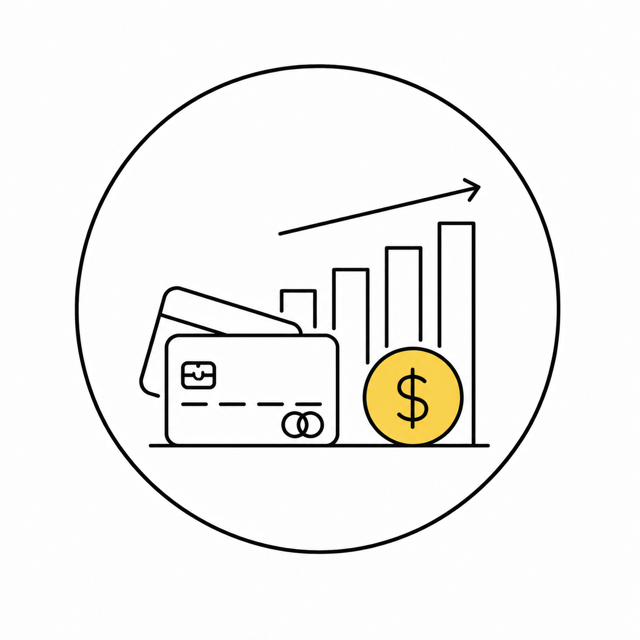
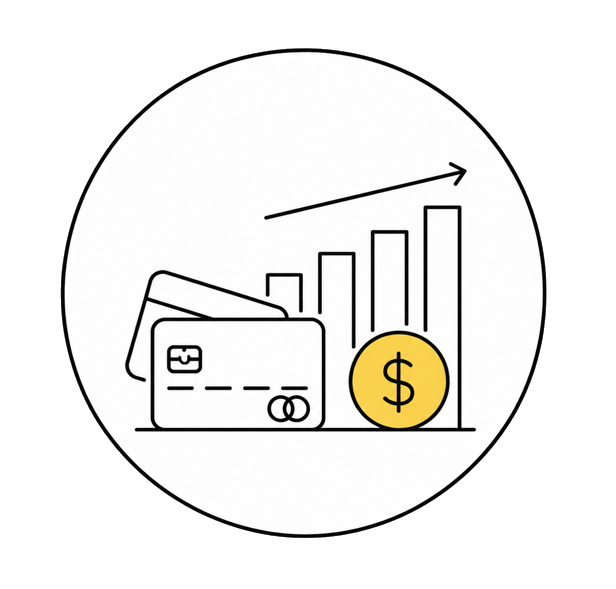
Commiting a bunch of changes before I change fonts.  Not pushing to github yet because I don't want it to affect live site.

Changed region(s): [[0.0925, 0.0611, 0.8945, 0.9168], [0.4318, 0.3056, 0.6786, 0.3973], [0.3084, 0.8251, 0.4318, 0.8862]]

diff --git a/templates/about.html b/templates/about.html
@@ -3,7 +3,7 @@
 {% block body %}
 
 <div class="px-4 py-5 my-5 text-center">
-    <h1 class="display-5 mb-4 fw-bold text-body-emphasis">About Yellow Pin Travel</h1>
+    <h1 class="display-5 mb-4 fw-bold text-body-emphasis">About Yellow Pin <span class="manrope-title">Travel</span></h1>
     <div class="col-lg-6 mx-auto">
         <p class="lead my-4 pt-3"> I'm Jen, the founder of Yellow Pin Travel. I am an avid traveler with an insatiable appetite for planning travel. I have been across the globe in nearly every direction; my longest flight has been 14.5 hours in the air. I love every aspect of travel.</p>
 
@@ -16,7 +16,7 @@
 
 </div>
 
-<section class="section">
+<section class="about-section">
     <div class="container-fluid">
         <div class="row justify-content-center">
             <div class="col-md p-5 align-self-center d-flex justify-content-center">
@@ -32,7 +32,7 @@
     </div>
 </section>
 
-<section class="section">
+<section class="about-section">
     <div class="container-fluid">
         <div class="row">
             <div class="col-md-5">
@@ -48,28 +48,29 @@
     </div>
 </section>
 
-<section class="cta-section p-3">
-    <div class="container mb-4">
-        <div class="row">
-            <div class="col">
-
-            </div>
-            <div class="col-lg-6">
-                <div class="card rounded-4 shadow">
-                    <img src="static/images/Cocoa.jpg" class="card-img-top rounded-4" alt="Cocoa">
+<section class="about-section py-4">
+    <div class="container-fluid">
+        <div class="row justify-content-center">
+            <div class="col-md p-5 align-self-center d-flex justify-content-center">
+                <div class="card rounded-4 shadow">   
                     <div class="card-body text-center">
                         <h2 class="card-title display-6">Why Pins?</h2>
                         <p class="card-text lead">I decided when my son was born that we would get an enamel pin from every place he visited. They don't take up space in luggage, are colorful, and importantly, are easy to store in a jar (or two or three) at home.</p>
                         <a class="btn btn-ypt btn-lg px-4 m-3" href="/contact">Start your pin collection</a>
                     </div>
                 </div>
-            </div>    
-        </div>        
+            </div>
+            <div class="col-md-5">
+                <img src="static/images/Beef.jpg" class="img-fluid mx-auto d-block rounded-4 my-3 shadow" alt="Taco">
+            </div>
+        </div>
     </div>
 </section>
 
+
+
 <div class="px-4 py-5 mt-5 text-center">
-    <h1 class="display-5 mb-4 fw-bold text-body-emphasis">My Family Travel</h1>
+    <h1 class="display-5 mb-4 fw-bold text-body-emphasis">Some of the Trips We've Taken</h1>
 </div>
 <div class="container mb-5">
     <div class="row g-5 justify-content-center">

diff --git a/templates/services.html b/templates/services.html
@@ -8,22 +8,28 @@
         <h2 class="display-5">Here's what I can do for you:</h2>
     </div>
     
-    <div class="container-lg py-3 py-md-5">  
-        <div class="row g-3 g-md-5">
+    <div class="container-lg py-3 py-md-5">
+        <div class="row g-3">
             <div class="col-sm">
-                <img src="static/images/Fora_Logo_Wordmark_Black-Sand_S.png" class="service-img pb-3" alt="Fora logo">
-                <h3>Traditional Travel Advisor</h3>
-                <p class="pb-3" style="text-align: justify;">I am a travel advisor with Fora; let me use the resources I have access to with Fora to craft you your perfect travel plan. I can work with any budget to give you the holiday you've been hoping for. Fora is an established travel agency with deep connections so I can provide you the personalized itinerary you deserve.</p>
+                <div class="card rounded-2 shadow" style="min-height: 40rem;">
+                    <img src="static/images/Fora_Logo_Wordmark_Black-Sand_S.png" class="card-img-top service-img py-3" alt="Fora logo">
+                    <h3 class="card-title p-3">Traditional Travel Advisor</h3>
+                    <p class="card-text p-3" style="text-align: justify;">I am a travel advisor with Fora; let me use the resources I have access to with Fora to craft you your perfect travel plan. I can work with any budget to give you the holiday you've been hoping for. Fora is an established travel agency with deep connections so I can provide you the personalized itinerary you deserve.</p>
+                </div>
             </div>
             <div class="col-sm">
-                <img src="static/images/Points and Miles Travel Advisor icon.png" class="service-img pb-3" alt="Airplane">
-                <h3>Points and Miles Travel Advisor</h3>
-                <p class="pb-3" style="text-align: justify;">I can help you utilize your points and miles to achieve your travel desires. Points and miles can let you travel for pennies on the dollar. I'm happy to strategize with you if cash or points are better for your specific use. And I'm happy to do the searching to find award availability.</p>
+                <div class="card rounded-2 shadow" style="min-height: 40rem;">
+                    <img src="static/images/Points and Miles Travel Advisor icon.png" class="card-img-top service-img py-3" alt="Airplane">
+                    <h3 class="card-title p-3">Points and Miles Travel Advisor</h3>
+                    <p class="card-text p-3" style="text-align: justify;">I can help you utilize your points and miles to achieve your travel desires. Points and miles can let you travel for pennies on the dollar. I'm happy to strategize with you if cash or points are better for your specific use. And I'm happy to do the searching to find award availability.</p>
+                </div>
             </div>
             <div class="col-sm">
-                <img src="static/images/Points and Miles Strategy Advisor icon.PNG" class="service-img-points pb-3" alt="Credit card">
-                <h3>Points and Miles Strategy Advisor</h3>
-                <p class="pb-3" style="text-align: justify;">If you want to start traveling with points and miles, I can be your strategy advisor. I can teach you the ins and outs of getting started and or advise you on continuing your journey. Points and miles can give you experiences that may otherwise be out of your price range. I can be your guide to a whole new world.</p>
+                <div class="card rounded-2 shadow" style="min-height: 40rem;">
+                    <img src="static/images/Points and Miles Strategy Advisor icon.PNG" class="card-img-top service-img py-3" alt="Credit card">
+                    <h3 class="card-title p-3">Points and Miles Strategy Advisor</h3>
+                    <p class="card-text p-3" style="text-align: justify;">If you want to start traveling with points and miles, I can be your strategy advisor. I can teach you the ins and outs of getting started and or advise you on continuing your journey. Points and miles can give you experiences that may otherwise be out of your price range. I can be your guide to a whole new world.</p>
+                </div>
             </div>
         </div>
     </div>

diff --git a/static/css/styles.css b/static/css/styles.css
@@ -4,8 +4,7 @@
       --ypt-paper: #fffdf8;
       --ypt-soft: #f8f1df;
       --ypt-line: #e8ddc8;
-      --ypt-yellow: #ffd45c;
-      --ypt-yellow-dark: #d6a900;
+      --ypt-yellow: #f4c542;
     }
 
     html {
@@ -125,6 +124,8 @@
       letter-spacing: 0;
     }
 
+    /* <weight>: Use a value from 200 to 800 */
+    
     .manrope-title {
       font-family: "Manrope", sans-serif;
       font-optical-sizing: auto;
@@ -132,16 +133,15 @@
       font-style: normal;
     }
 
-    .hedvig-letters-serif-title {
-      font-family: "Hedvig Letters Serif", serif;
-      font-optical-sizing: auto;
-      font-weight: 400;
-      font-style: normal;
-    }
+    /* <weight>: Use a value from 100 to 900 */
 
-    /*h3 {
-      min-height: 70px;
-    }*/
+    .noto-serif-display-<uniquifier> {
+      font-family: "Noto Serif Display", serif;
+      font-optical-sizing: auto;
+      font-weight: <weight>;
+      font-style: normal;
+      font-variation-settings: "wdth" 100;
+    }
 
     .display-title {
       max-width: 760px;
@@ -222,7 +222,7 @@
       border-bottom: 1px solid var(--ypt-line);
     }
 
-    .cta-section {
+    .cta-section, .about-section {
       background: var(--ypt-soft);
     }
 

diff --git a/templates/contact.html b/templates/contact.html
@@ -2,11 +2,13 @@
 
 {% block body %}
 
-<div class="px-4 py-5 my-5 text-center">
-    <h1 class="display-5 mb-4 fw-bold text-body-emphasis">Contact Us</h1>
+<div class="container-sm px-4 py-5 my-5 text-center">
+    <h1 class="display-5 mb-4 fw-bold text-body-emphasis">Contact</h1>
     <div class="col-lg-6 mx-auto">
-        <p class="lead pt-3">Send a message here or via the email below.</p>
-        <p class="lead mb-4">Let me know how I can help your travels.</p>
+        <p class="lead p-3">Send a message here or via the email below.</p>
+    </div>
+    <div>
+        <iframe src="https://docs.google.com/forms/d/e/1FAIpQLSej9u1K21SfE116tix0guFy-lTz4mkygPkTcD7m9ezGbcZSSw/viewform?embedded=true" width="800" height="1460" frameborder="0" marginheight="0" marginwidth="0">Loading…</iframe>
     </div>
 </div>
 

diff --git a/templates/index.html b/templates/index.html
@@ -8,9 +8,9 @@
           <div class="col-lg-7">
             <div class="eyebrow mb-4">Travel booking and points planning</div>
             <h1 class="display-title mb-4">
-              <span class="manrope-title">Welcome to</span> 
-              <span class=".hedvig-letters-serif-title">Yellow Pin</span>
-              <span class="manrope-title">Travel</span>
+              <div class="manrope-title">Welcome to</div> 
+              <div class="hedvig-letters-serif-title">Yellow Pin</div>
+              <div class="manrope-title">Travel</div>
             </h1>
             <p class="lead fs-4 mb-0">I plan travel for your interests. Let the travel planning be my job, and let the travel experiences be your job.</p>
             <div class="d-flex flex-column flex-sm-row gap-3 mt-4 pt-2">
@@ -34,7 +34,7 @@
             <img src="static/images/Beef.jpg" class="img-fluid mx-auto d-block rounded-4 my-3 shadow" alt="Taco">
           </div>
           <div class="col-md p-5 align-self-center">
-            <h2 class="display-5 my-2">How I can help</h2>
+            <h2 class="display-5 my-4">How I can help</h2>
             <p class="lead-dot fs-4 my-2">Traditional Cash Hotel and Tour Bookings</p>
             <p class="lead-dot fs-4 my-2">Points and Miles Utilization</p>
             <p class="lead-dot fs-4 my-2">Points and Miles Strategy</p>

diff --git a/templates/base.html b/templates/base.html
@@ -7,13 +7,15 @@
   <meta name="viewport" content="width=device-width, initial-scale=1">
   <title>Yellow Pin Travel | Travel Booking & Points Planning</title>
   <meta name="description" content="Yellow Pin Travel helps travelers book better trips and plan smarter credit card points and miles redemptions.">
+  
   <link href="https://cdn.jsdelivr.net/npm/bootstrap@5.3.8/dist/css/bootstrap.min.css" rel="stylesheet" integrity="sha384-sRIl4kxILFvY47J16cr9ZwB07vP4J8+LH7qKQnuqkuIAvNWLzeN8tE5YBujZqJLB" crossorigin="anonymous">
   <link href="static/css/styles.css" rel="stylesheet">
+
   <link rel="preconnect" href="https://fonts.googleapis.com">
   <link rel="preconnect" href="https://fonts.gstatic.com" crossorigin>
-  <link href="https://fonts.googleapis.com/css2?family=Hedvig+Letters+Serif:opsz@12..24&family=Manrope:wght@200..800&display=swap" rel="stylesheet">
+  <link href="https://fonts.googleapis.com/css2?family=Manrope:wght@200..800&family=Noto+Serif+Display:ital,wght@0,100..900;1,100..900&display=swap" rel="stylesheet">
   
-  <link rel="apple-touch-icon" sizes="180x180" href="static/images/favicon/apple-touch-icon.png">
+<link rel="apple-touch-icon" sizes="180x180" href="static/images/favicon/apple-touch-icon.png">
   <link rel="icon" type="image/png" sizes="32x32" href="static/images/favicon/favicon-32x32.png">
   <link rel="icon" type="image/png" sizes="16x16" href="static/images/favicon/favicon-16x16.png">
   <link rel="manifest" href="static/images/favicon/site.webmanifest">

diff --git a/templates/terms.html b/templates/terms.html
@@ -107,8 +107,6 @@
         <h2 class="h3 mt-5 mb-3">6. PROHIBITED ACTIVITIES</h2>
         <p>You may not access or use the Services for any purpose other than that for which we make the Services available. The Services may not be used in connection with any commercial endeavors except those that are specifically endorsed or approved by us.</p>
         <p>As a user of the Services, you agree not to:</p>
-        <p>permission from us.</p>
-        <p>•</p>
         
         <ul>
           <li>Systematically retrieve data or other content from the Services to create or compile, directly or indirectly, a collection, compilation, database, or directory without written permission from us.</li>